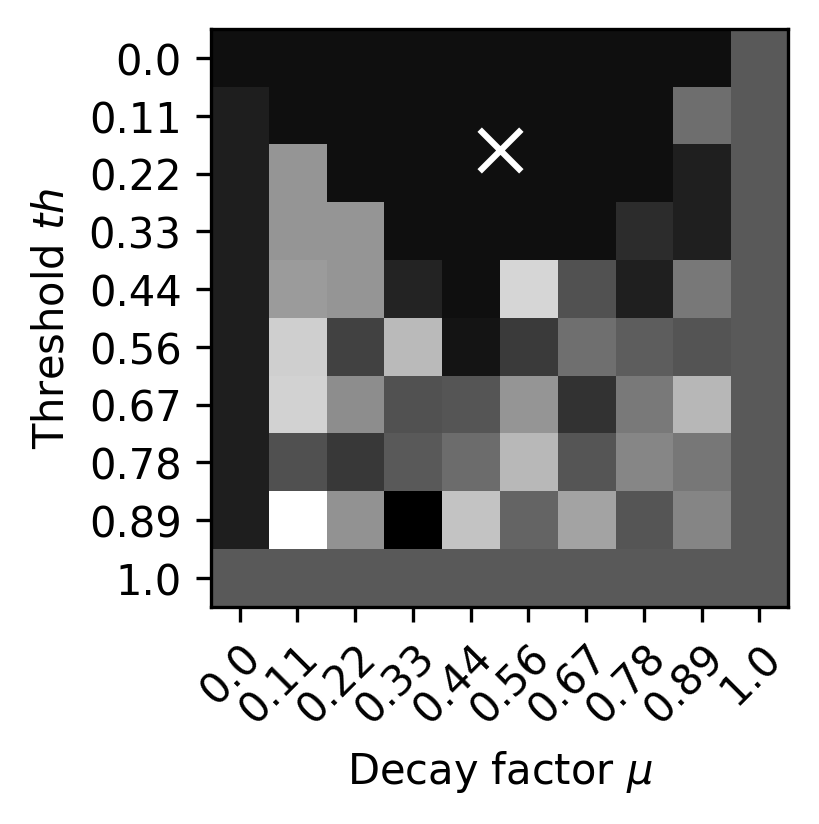
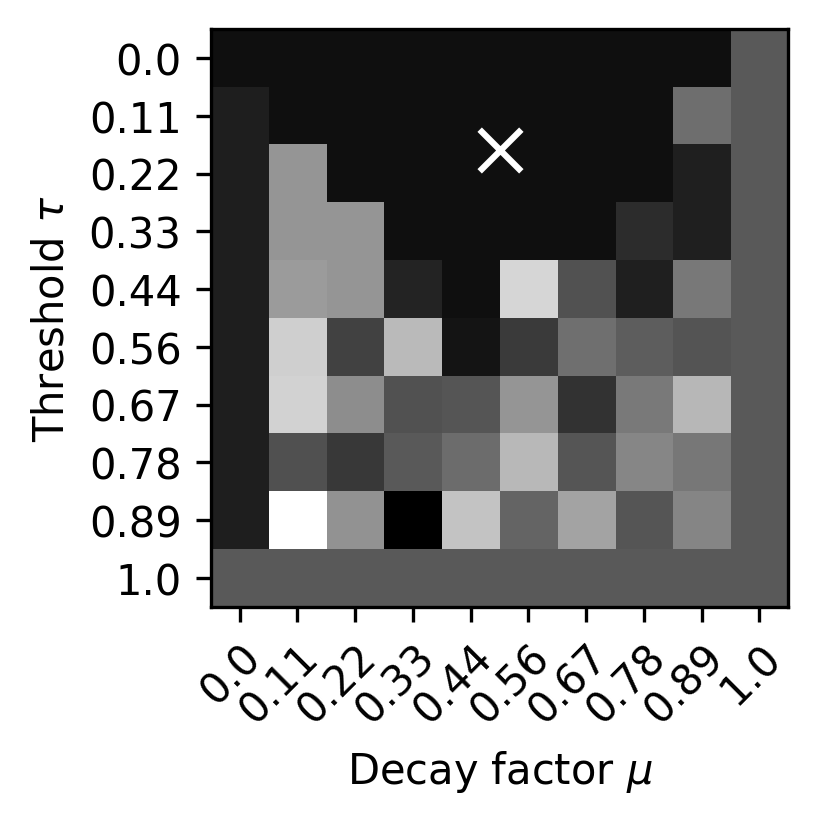
bigger images

Changed region(s): [[0.0305, 0.2124, 0.0916, 0.5461]]

diff --git a/Figures_Shapes.py b/Figures_Shapes.py
@@ -123,8 +123,10 @@ if __name__ == '__main__':
         plt.gca().axes.get_yaxis().set_visible(False)
         plt.gca().set_aspect('equal', adjustable='box')
         
+        #ticks font size
+        plt.xticks(fontsize=12)
         plt.tight_layout()
-        path_image = f'Images/Paper/shapes_group_{n}.png'
+        path_image = f'Images/Paper/Shapes.png'
         plt.savefig(path_image, dpi=600, bbox_inches='tight', pad_inches=0, transparent=False)
-        plt.show()
+        #plt.show()
         plt.clf()

diff --git a/Optimization_Grid_Search.py b/Optimization_Grid_Search.py
@@ -58,7 +58,7 @@ def visualize_results(file_path):
     #rotate the tick labels and set their alignment
     plt.setp(ax.get_xticklabels(), rotation=45, ha="right", rotation_mode="anchor")
     ax.set_xlabel(f'Decay factor $\mu$')
-    ax.set_ylabel('Threshold $th$')
+    ax.set_ylabel('Threshold $\\tau$')
     
     plt.scatter(0.5*10-0.5,0.16*10, color='w', marker='x',s=100, label='Optimal parameters')
 
